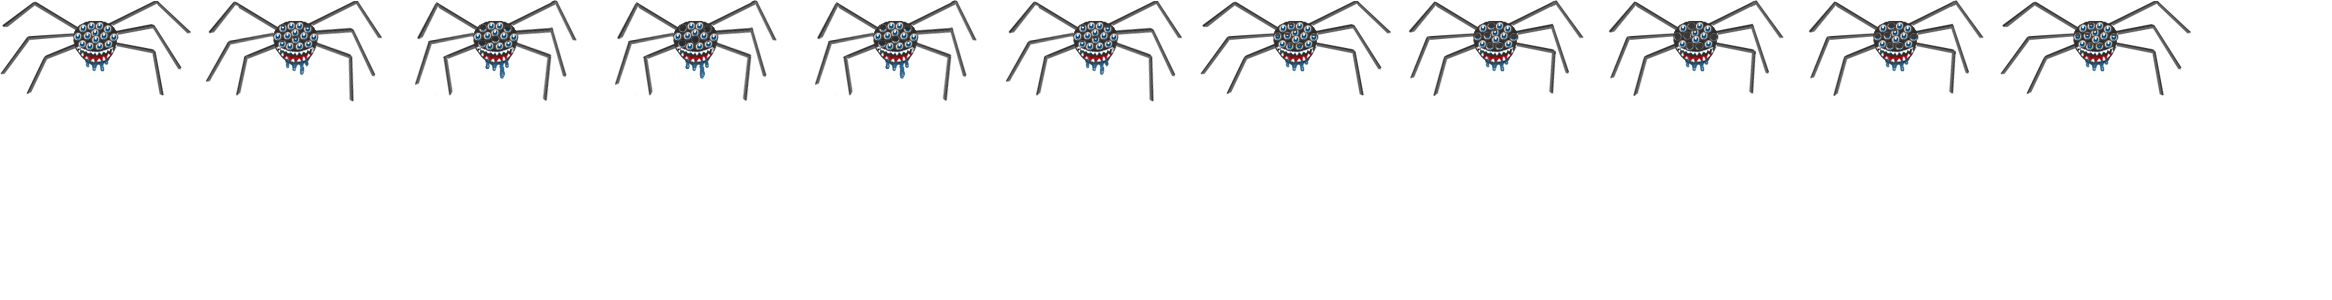
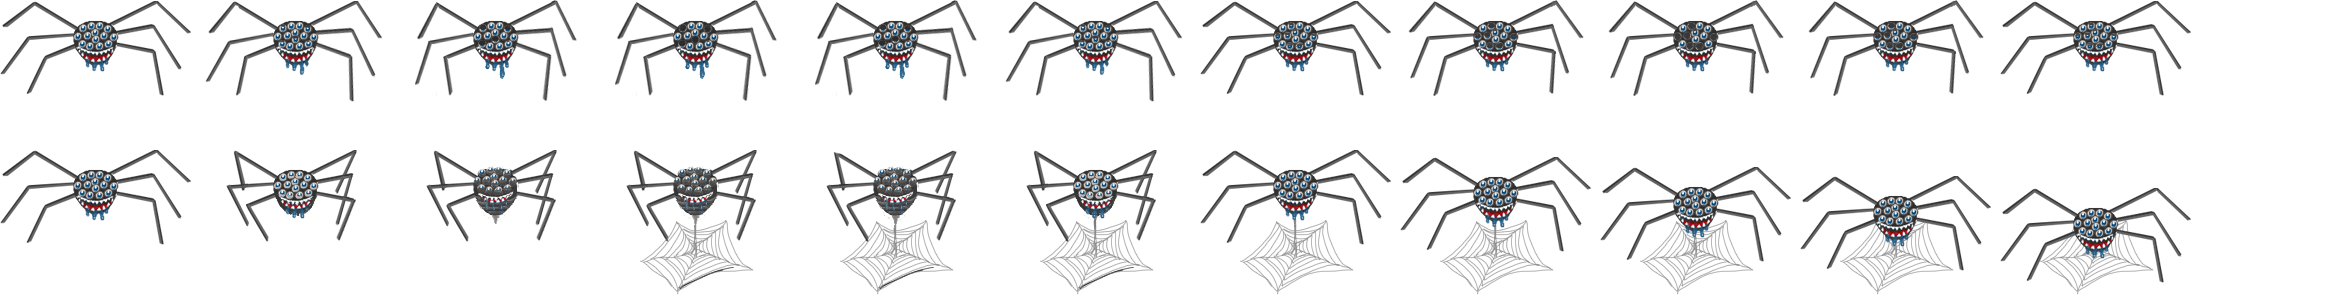
nuevos problemas y bug de la spider solucionado

Changed region(s): [[0.1852, 0.51, 0.9262, 0.96], [0.0, 0.51, 0.1544, 0.75], [0.8336, 0.6, 0.8645, 0.63]]

diff --git a/Spider.cpp b/Spider.cpp
@@ -12,8 +12,6 @@ Spider::Spider() {
 	nFrames = 11;
 	timeFrame = 3.f/11.f;
 
-	repeticiones  = 3;
-
 	this->setTexture(Resources::spider);
 	this->setOrigin(sf::Vector2f(100,75));
 }
@@ -44,10 +42,11 @@ void Spider::update(float deltaTime) {
 		}
 		if (frame >= nFrames) {
 			frame = 0;
+			if (estado == 1) waiting = true;
 		}
 		this->setTextureRect(sf::IntRect(sf::Vector2i(frame*200,estado*150),sf::Vector2i(200,150)));
 	}
-	else if (waiting) this->setTextureRect(sf::IntRect(sf::Vector2i(frame*200,0),sf::Vector2i(200,150)));
+	else if (waiting and estado != 2) this->setTextureRect(sf::IntRect(sf::Vector2i(10*200,150),sf::Vector2i(200,150)));
 	else {
 		timeFrame -= deltaTime;
 		if (timeFrame < 0.f) {
@@ -55,12 +54,12 @@ void Spider::update(float deltaTime) {
 			timeFrame += 2.f/26.f;
 		}
 		if (frame >= nFrames) alive = false;
-		this->setTextureRect(sf::IntRect(sf::Vector2i(frame*100,estado*63),sf::Vector2i(100,63)));
+		this->setTextureRect(sf::IntRect(sf::Vector2i(frame*200,estado*250),sf::Vector2i(100,63)));
 	}
 }
 
 bool Spider::isClicked(sf::Vector2f pos){
-	if (alive and std::abs(pos.x - (getPosition().x)) < 40 and std::abs(pos.y - getPosition().y) < 31) {
+	if (alive and std::abs(pos.x - (getPosition().x)) < 75 and std::abs(pos.y - getPosition().y) < 75) {
 		die();
 		return true;
 	}

diff --git a/GottaCodeFast.cpp b/GottaCodeFast.cpp
@@ -16,7 +16,7 @@ std::string readAll(std::string file)
 }
 
 GottaCodeFast::GottaCodeFast(int scrwidth, int scrheight, std::string title, int style) : Game(scrwidth, scrheight, title, style), editor(this), ui(this), compiling(false) {
-	problem = "sum";
+	problem = "helloworld";
 	time = 0;
 
 	ui.setStatement(readAll("data/judge/"+problem+"/problem.txt"));
@@ -29,10 +29,10 @@ GottaCodeFast::GottaCodeFast(int scrwidth, int scrheight, std::string title, int
 
 	timeUp = false;
 
-	w.setPosition(sf::Vector2f(100,100));
-	w.setPosFinal(sf::Vector2f(1000,100));
+	w.setPosition(sf::Vector2f(1000,100));
+	w.setPosFinal(sf::Vector2f(100,100));
 	s.setPosition(sf::Vector2f(500,100));
-	s.setPosFinal(sf::Vector2f(500,500));
+	s.setPosFinal(sf::Vector2f(500,200));
 }
 
 GottaCodeFast::~GottaCodeFast() {

diff --git a/data/judge/addonesecond/solution.cpp b/data/judge/addonesecond/solution.cpp
@@ -1,0 +1,25 @@
+#include<iostream>
+
+using namespace std;
+
+int main()
+{
+	int h, m, s;
+	cin >> h >> m >> s;
+	++s;
+	if (s == 60) {
+		++m;
+		s=0;
+	}
+	if (m == 60) {
+		++h;
+		m=0;
+	}
+	if (h == 24) h=0;
+	if (h < 10) cout << "0" << h << ":";
+	else cout << h << ":";
+	if (m < 10) cout << "0" << m << ":";
+	else cout << m << ":";
+	if (s < 10) cout << "0" << s << endl;
+	else cout << s << endl;
+}

diff --git a/data/judge/addonesecond/start.cpp b/data/judge/addonesecond/start.cpp
@@ -1,0 +1,19 @@
+#include<iostream>
+
+using namespace std;
+
+int main()
+{
+	int h,m,s;
+	cin >>h>>m>>s;
+	$
+
+
+
+	if (h < 10) cout << "0" << h << ":";
+	else cout << h << ":";
+	if (m < 10) cout << "0" << m << ":";
+	else cout << m << ":";
+	if (s < 10) cout << "0" << s << endl;
+	else cout << s << endl;
+}

diff --git a/data/judge/max/solution.cpp b/data/judge/max/solution.cpp
@@ -1,0 +1,13 @@
+#include<iostream>
+
+using namespace std;
+
+int main()
+{
+	int a, b;
+	cin >> a >> b;
+	int max;
+	if (a > b) max = a;
+	else max = b;
+	cout << max << endl;
+}

diff --git a/data/judge/addonesecond/gen.cpp b/data/judge/addonesecond/gen.cpp
@@ -1,0 +1,8 @@
+#include "../genutils.cpp"
+
+int main()
+{
+	seed();
+	cout<<rand()%1000<<" "<<rand()%1000<<endl;
+}
+

diff --git a/data/judge/helloworld/gen.cpp b/data/judge/helloworld/gen.cpp
@@ -1,0 +1,8 @@
+#include "../genutils.cpp"
+
+int main()
+{
+	seed();
+	cout<<rand()%1000<<" "<<rand()%1000<<endl;
+}
+

diff --git a/data/judge/max/gen.cpp b/data/judge/max/gen.cpp
@@ -1,0 +1,8 @@
+#include "../genutils.cpp"
+
+int main()
+{
+	seed();
+	cout<<rand()%1000<<" "<<rand()%1000<<endl;
+}
+

diff --git a/data/judge/max/start.cpp b/data/judge/max/start.cpp
@@ -1,0 +1,10 @@
+#include<iostream>
+
+using namespace std;
+
+int main()
+{
+	int a,b;
+	cin >> a >> b;
+	$
+}

diff --git a/data/judge/helloworld/solution.cpp b/data/judge/helloworld/solution.cpp
@@ -1,0 +1,8 @@
+#include<iostream>
+
+using namespace std;
+
+int main()
+{
+	cout << "Hello World";
+}

diff --git a/data/judge/helloworld/start.cpp b/data/judge/helloworld/start.cpp
@@ -1,0 +1,8 @@
+#include<iostream>
+
+using namespace std;
+
+int main()
+{
+	$
+}
